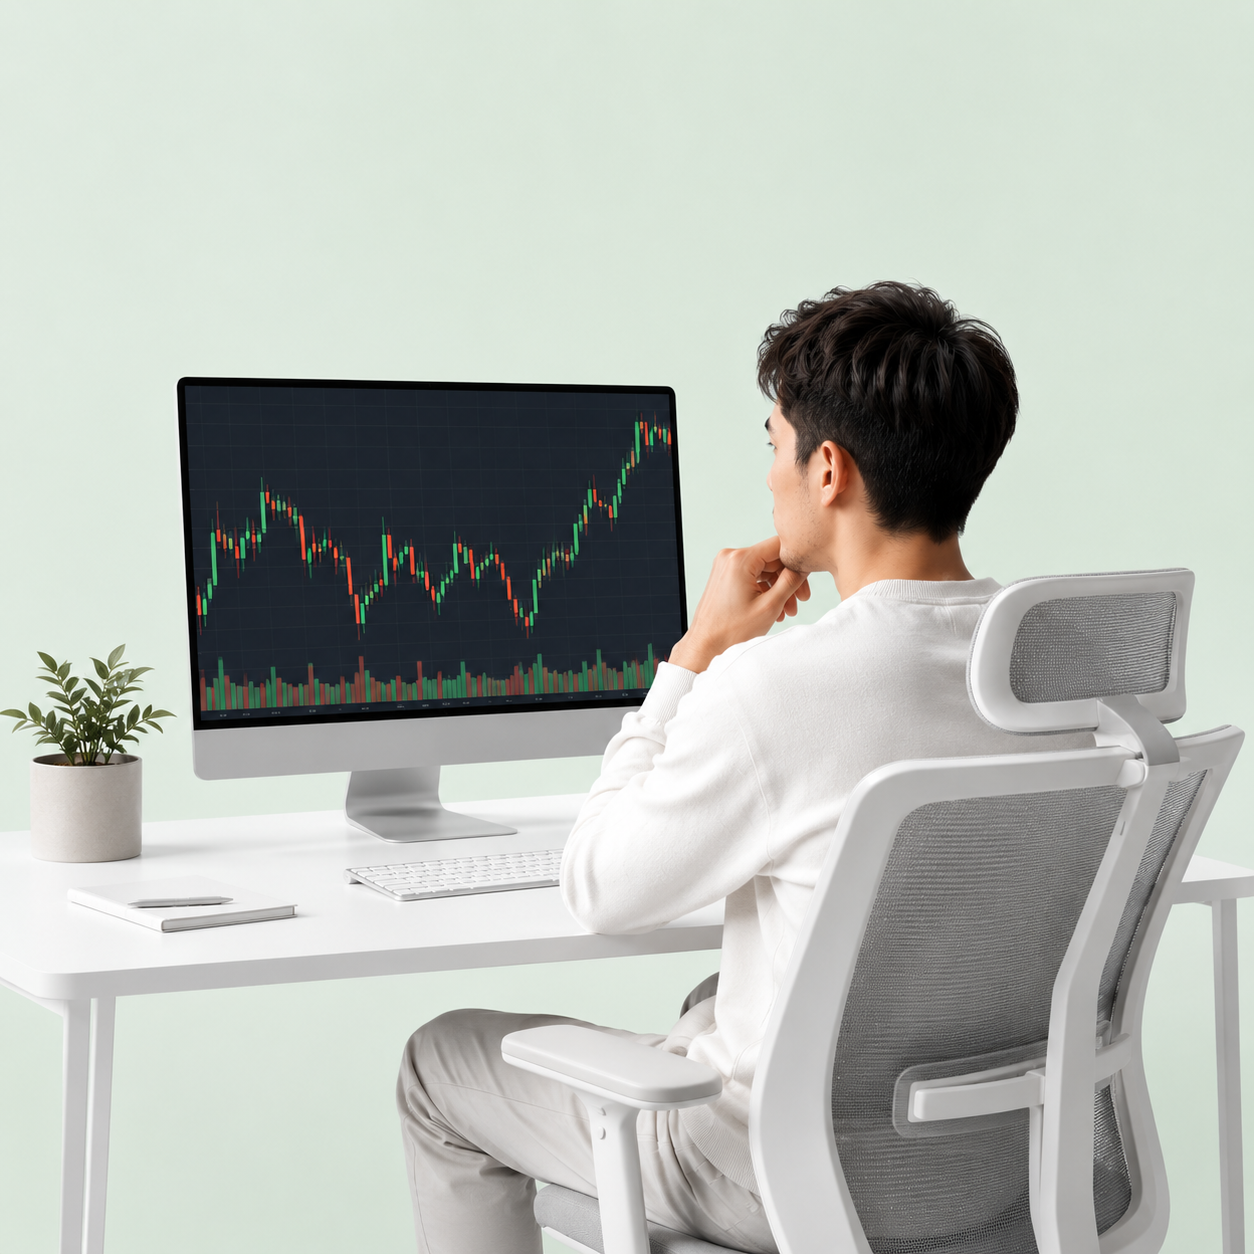
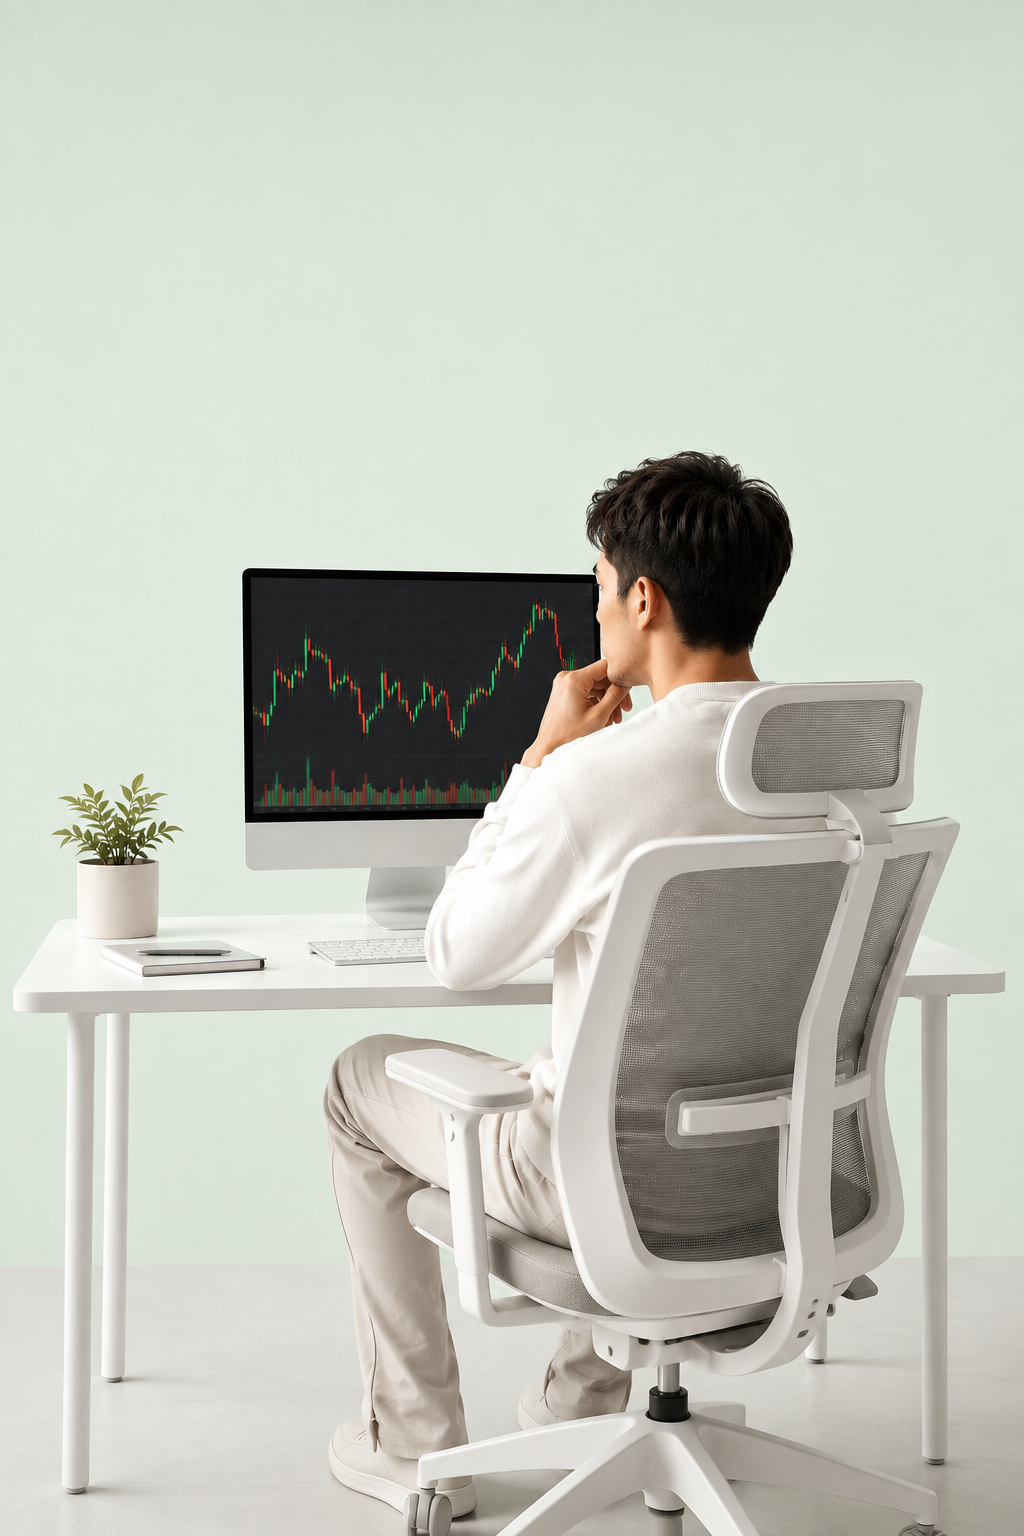
portrait cv photo

diff --git a/index.html b/index.html
@@ -14,7 +14,7 @@
 <link rel="preconnect" href="https://fonts.gstatic.com" crossorigin>
 <link href="https://fonts.googleapis.com/css2?family=Inter:wght@400;500;600;700;800;900&display=swap" rel="stylesheet">
 <link rel="stylesheet" href="https://cdn.jsdelivr.net/npm/intl-tel-input@18.5.3/build/css/intlTelInput.min.css">
-<link rel="stylesheet" href="styles.css?v=53">
+<link rel="stylesheet" href="styles.css?v=54">
 </head>
 <body>
 
@@ -254,7 +254,7 @@
       <aside class="cv__side">
         <picture class="cv__pic">
           <source srcset="img/cv.webp" type="image/webp">
-          <img src="img/cv.jpg" width="900" height="900" alt="Трейдер за рабочим местом анализирует график" loading="lazy" decoding="async">
+          <img src="img/cv.jpg" width="1000" height="1500" alt="Трейдер за рабочим местом анализирует график" loading="lazy" decoding="async">
         </picture>
       </aside>
 
@@ -816,6 +816,6 @@
 </footer>
 
 <script src="https://cdn.jsdelivr.net/npm/intl-tel-input@18.5.3/build/js/intlTelInput.min.js"></script>
-<script src="script.js?v=53"></script>
+<script src="script.js?v=54"></script>
 </body>
 </html>

diff --git a/styles.css b/styles.css
@@ -254,13 +254,13 @@ figure{margin:0}
 .cv__side{background:var(--gray);padding:20px;display:flex}
 .cv__side .ph{border:0;background:#fff;width:100%}
 .cv__pic{
-  display:block;width:100%;aspect-ratio:1/1;
+  display:block;width:100%;aspect-ratio:2/3;
   overflow:hidden;border-radius:var(--r);background:#fff;
 }
 .cv__pic{align-self:stretch}
 .cv__pic img{
   display:block;width:100%;height:100%;
-  object-fit:cover;object-position:60% 50%;aspect-ratio:auto;border-radius:0;
+  object-fit:cover;object-position:58% 58%;aspect-ratio:auto;border-radius:0;
 }
 .ph--cv{aspect-ratio:1/1}
 
